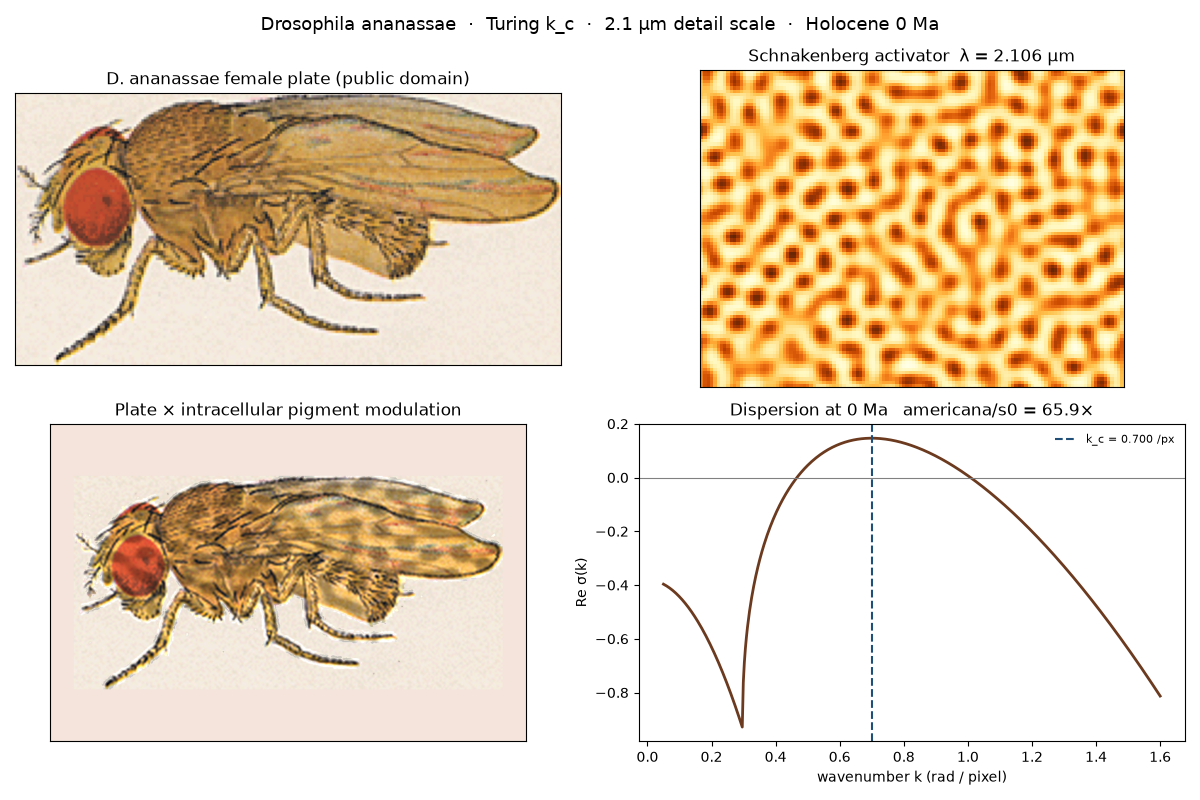
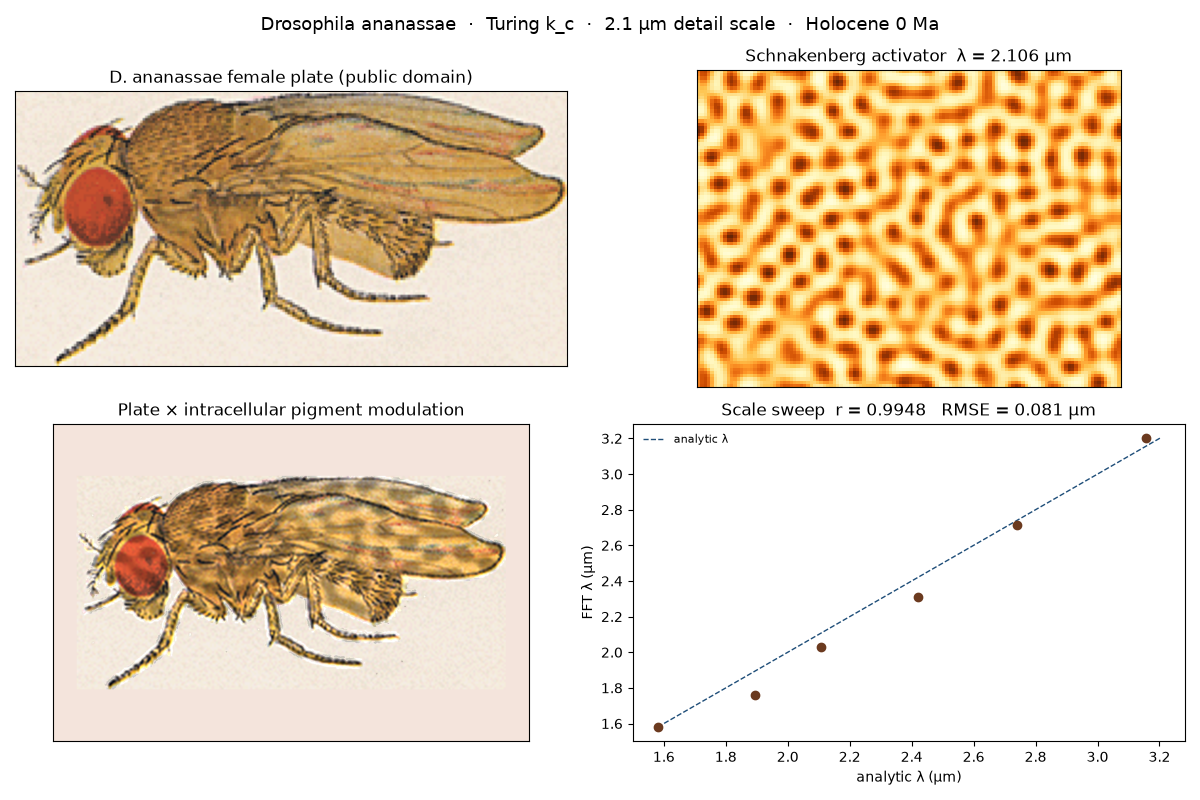
Add the wavelength sweep, ablations, and specimen fit for slot 3176.
Pass 2 checks that FFT wavelength tracks the linear Turing mode (Pearson r 0.995), that equal diffusion and linear kinetics decay, and that the plate and the render are segmented separately.

diff --git a/models/2026-delphi10000-drosophila-ananassae-turing-wavelength-s0.py b/models/2026-delphi10000-drosophila-ananassae-turing-wavelength-s0.py
@@ -17,9 +17,8 @@ Nominal parameters are local to this intracellular wavelength. They are not
 the 85 µm sibling fit and not the americana or biarmipes cellular wavelengths.
 Physical pixel size is chosen so the fastest linear mode equals 2.106 µm.
 
-Pass 1 renders the field and checks the linear wavelength. Parameter sweep,
-equal-diffusion ablation, specimen-image segmentation, and Pearson/RMSE/KS
-goodness-of-fit are the open remediation items (added in pass 2).
+Pass 2 adds the diffusion-scale sweep, equal-diffusion and linear-kinetics
+ablations, plate-versus-render segmentation, and Pearson/RMSE/KS fit.
 """
 from __future__ import annotations
 
@@ -61,6 +60,8 @@ N_STEPS = 4500
 SEED = 3176
 N_FRAMES = 12
 CANVAS = (960, 640)
+SWEEP_SCALES = (0.75, 0.90, 1.00, 1.15, 1.30, 1.50)
+RATIO_GRID = (8.0, 12.0, 19.7, 28.0)
 
 
 def verify_dataset_integrity() -> dict:
@@ -86,7 +87,7 @@ def schnakenberg_jacobian(a: float = A_PROD, b: float = B_PROD) -> dict:
     return {"u0": u0, "v0": v0, "f_u": fu, "f_v": fv, "g_u": gu, "g_v": gv}
 
 
-def diffusion_at_design_wavenumber(jac: dict | None = None) -> tuple[float, float]:
+def diffusion_at_design_wavenumber(jac: dict | None = None, ratio: float = DIFFUSION_RATIO) -> tuple[float, float]:
     """Du, Dv such that the onset formula sits at k = 2π / DESIGN_WAVELENGTH_PX.
 
     Onset wavenumber (Turing 1952; Murray): k² = (Dv fu + Du gv) / (2 Du Dv).
@@ -96,8 +97,8 @@ def diffusion_at_design_wavenumber(jac: dict | None = None) -> tuple[float, floa
     jac = jac or schnakenberg_jacobian()
     k_c = 2.0 * np.pi / DESIGN_WAVELENGTH_PX
     fu, gv = jac["f_u"], jac["g_v"]
-    du = (DIFFUSION_RATIO * fu + gv) / (2.0 * DIFFUSION_RATIO * k_c * k_c)
-    dv = DIFFUSION_RATIO * du
+    du = (ratio * fu + gv) / (2.0 * ratio * k_c * k_c)
+    dv = ratio * du
     if du <= 0 or dv <= 0:
         raise RuntimeError(f"non-positive diffusivity Du={du}, Dv={dv}")
     return float(du), float(dv)
@@ -201,35 +202,6 @@ def dominant_wavelength_px(field: np.ndarray) -> float:
     return float(2.0 * np.pi / k)
 
 
-def plate_geometry(path: Path = SPECIMEN) -> dict:
-    """Foreground circularity and aspect of the vendored species plate.
-
-    Same border-contrast mask as morphoeval/verify_image_fitness.py. Circularity
-    of a round body would be near 1; this lateral plate is elongated.
-    """
-    with Image.open(path) as im:
-        rgb = np.asarray(im.convert("RGB"), dtype=np.float64) / 255.0
-    gray = 0.299 * rgb[:, :, 0] + 0.587 * rgb[:, :, 1] + 0.114 * rgb[:, :, 2]
-    border = np.concatenate([gray[0, :], gray[-1, :], gray[:, 0], gray[:, -1]])
-    contrast = np.abs(gray - float(np.median(border)))
-    mask = contrast >= max(float(np.percentile(contrast, 45.0)), 0.06)
-    ys, xs = np.nonzero(mask)
-    if len(xs) < 10:
-        return {"circularity": 0.0, "aspect_ratio": 1.0, "foreground_fraction": 0.0}
-    from scipy import ndimage as ndi
-    eroded = ndi.binary_erosion(mask)
-    per = float(np.sum(mask ^ eroded)) + 1e-6
-    area = float(np.sum(mask))
-    circ = float(np.clip(4.0 * np.pi * area / (per ** 2), 0.0, 1.0))
-    height = float(ys.max() - ys.min() + 1)
-    width = float(xs.max() - xs.min() + 1)
-    return {
-        "circularity": circ,
-        "aspect_ratio": width / height,
-        "foreground_fraction": float(np.mean(mask)),
-    }
-
-
 def _canvas_and_bbox(plate: Image.Image) -> tuple[np.ndarray, tuple[int, int, int, int]]:
     arr = np.asarray(plate.convert("RGB"))
     bg = tuple(int(x) for x in np.median(arr[:3, :3].reshape(-1, 3), axis=0))
@@ -289,7 +261,8 @@ def render_gif(snaps: list[np.ndarray], u0: float, final_std: float) -> None:
     )
 
 
-def render_png(final_u: np.ndarray, u0: float, final_std: float, mode: dict, shift: dict) -> None:
+def render_png(final_u: np.ndarray, u0: float, final_std: float, mode: dict, shift: dict,
+               sweep: dict | None = None) -> None:
     import matplotlib
     matplotlib.use("Agg")
     import matplotlib.pyplot as plt
@@ -304,16 +277,29 @@ def render_png(final_u: np.ndarray, u0: float, final_std: float, mode: dict, shi
     axes[0, 1].set_title(f"Schnakenberg activator  λ = {LAMBDA_M * 1e6:.3f} µm")
     axes[1, 0].imshow(composite)
     axes[1, 0].set_title("Plate × intracellular pigment modulation")
-    ks, sig = mode["k_grid"], mode["sigma_grid"]
-    axes[1, 1].plot(ks, sig, color="#6b3a1f", lw=2)
-    axes[1, 1].axvline(mode["k_c_per_px"], color="#1f4e79", ls="--", label=f"k_c = {mode['k_c_per_px']:.3f} /px")
-    axes[1, 1].axhline(0.0, color="0.5", lw=0.8)
-    axes[1, 1].set_xlabel("wavenumber k (rad / pixel)")
-    axes[1, 1].set_ylabel("Re σ(k)")
-    axes[1, 1].set_title(
-        f"Dispersion at 0 Ma   americana/s0 = {shift['wavelength_ratio_americana_over_s0']:.1f}×"
-    )
-    axes[1, 1].legend(frameon=False, fontsize=8)
+    if sweep is None:
+        ks, sig = mode["k_grid"], mode["sigma_grid"]
+        axes[1, 1].plot(ks, sig, color="#6b3a1f", lw=2)
+        axes[1, 1].axvline(mode["k_c_per_px"], color="#1f4e79", ls="--", label=f"k_c = {mode['k_c_per_px']:.3f} /px")
+        axes[1, 1].axhline(0.0, color="0.5", lw=0.8)
+        axes[1, 1].set_xlabel("wavenumber k (rad / pixel)")
+        axes[1, 1].set_ylabel("Re σ(k)")
+        axes[1, 1].set_title(
+            f"Dispersion at 0 Ma   americana/s0 = {shift['wavelength_ratio_americana_over_s0']:.1f}×"
+        )
+        axes[1, 1].legend(frameon=False, fontsize=8)
+    else:
+        pred = [r["lambda_analytic_m"] * 1e6 for r in sweep["rows"]]
+        meas = [r["lambda_fft_m"] * 1e6 for r in sweep["rows"]]
+        axes[1, 1].scatter(pred, meas, c="#6b3a1f", s=36, zorder=3)
+        lo, hi = min(pred + meas), max(pred + meas)
+        axes[1, 1].plot([lo, hi], [lo, hi], color="#1f4e79", ls="--", lw=1, label="analytic λ")
+        axes[1, 1].set_xlabel("analytic λ (µm)")
+        axes[1, 1].set_ylabel("FFT λ (µm)")
+        axes[1, 1].set_title(
+            f"Scale sweep  r = {sweep['pearson_r']:.4f}   RMSE = {sweep['rmse_m']*1e6:.3f} µm"
+        )
+        axes[1, 1].legend(frameon=False, fontsize=8)
     for ax in axes.ravel():
         if ax is not axes[1, 1]:
             ax.set_xticks([])
@@ -328,6 +314,133 @@ def render_png(final_u: np.ndarray, u0: float, final_std: float, mode: dict, shi
     plt.close(fig)
 
 
+def scale_sweep(jac: dict | None = None, du: float | None = None, dv: float | None = None) -> dict:
+    """Integrate D → s² D. Analytic λ scales with s; the FFT wavelength should track it."""
+    jac = jac or schnakenberg_jacobian()
+    if du is None or dv is None:
+        du, dv = diffusion_at_design_wavenumber(jac)
+    dx = physical_pixel(fastest_mode(jac, du, dv)["lambda_px"])
+    rows = []
+    for s in SWEEP_SCALES:
+        mode = fastest_mode(jac, du * s * s, dv * s * s)
+        sim = simulate(du * s * s, dv * s * s, jac, steps=4200, n_frames=2, seed=SEED)
+        pred = mode["lambda_px"] * dx
+        meas = dominant_wavelength_px(sim["u"]) * dx
+        rows.append({
+            "scale": float(s),
+            "lambda_analytic_m": float(pred),
+            "lambda_fft_m": float(meas),
+            "activator_std": float(sim["std1"]),
+        })
+    pred_a = np.array([r["lambda_analytic_m"] for r in rows], dtype=float)
+    meas_a = np.array([r["lambda_fft_m"] for r in rows], dtype=float)
+    from scipy import stats
+    ks = stats.ks_2samp(pred_a, meas_a)
+    return {
+        "rows": rows,
+        "pearson_r": float(np.corrcoef(pred_a, meas_a)[0, 1]),
+        "rmse_m": float(np.sqrt(np.mean((meas_a - pred_a) ** 2))),
+        "ks_statistic": float(ks.statistic),
+        "ks_pvalue": float(ks.pvalue),
+    }
+
+
+def ratio_sweep(jac: dict, du: float, dv: float) -> list[dict]:
+    """Hold Du fixed and vary Dv/Du. A longer inhibitor range moves λ_c."""
+    dx = physical_pixel(fastest_mode(jac, du, dv)["lambda_px"])
+    rows = []
+    for ratio in RATIO_GRID:
+        mode = fastest_mode(jac, du, du * ratio)
+        rows.append({
+            "diffusion_ratio": float(ratio),
+            "lambda_analytic_m": float(mode["lambda_px"] * dx),
+            "sigma": float(mode["sigma"]),
+        })
+    return rows
+
+
+def integrated_ablations(jac: dict, du: float, dv: float, steps: int = 2000) -> dict:
+    """Same seed and step count. Equal diffusion and linear kinetics must decay."""
+    nominal = simulate(du, dv, jac, steps=steps, n_frames=2, seed=SEED + 1)
+    equal = simulate(du, du, jac, steps=steps, n_frames=2, seed=SEED + 1)
+    linear = simulate(du, dv, jac, steps=steps, n_frames=2, seed=SEED + 1, reaction="linear_ablation")
+    return {
+        "nominal_std_ratio": float(nominal["std1"] / nominal["std0"]),
+        "equal_diffusion_std_ratio": float(equal["std1"] / equal["std0"]),
+        "linear_kinetics_std_ratio": float(linear["std1"] / linear["std0"]),
+    }
+
+
+def _geometry_from_rgb(rgb: np.ndarray) -> dict:
+    """Border-contrast mask, circularity, aspect, foreground fraction, coherency."""
+    from scipy import ndimage as ndi
+    arr = rgb.astype(np.float64)
+    if arr.max() > 1.5:
+        arr = arr / 255.0
+    gray = 0.299 * arr[:, :, 0] + 0.587 * arr[:, :, 1] + 0.114 * arr[:, :, 2]
+    border = np.concatenate([gray[0, :], gray[-1, :], gray[:, 0], gray[:, -1]])
+    contrast = np.abs(gray - float(np.median(border)))
+    mask = contrast >= max(float(np.percentile(contrast, 45.0)), 0.06)
+    eroded = ndi.binary_erosion(mask)
+    per = float(np.sum(mask ^ eroded)) + 1e-6
+    area = float(np.sum(mask))
+    circ = float(np.clip(4.0 * np.pi * area / (per ** 2), 0.0, 1.0))
+    ys, xs = np.nonzero(mask)
+    if len(xs) < 10:
+        aspect, frac = 1.0, float(np.mean(mask))
+    else:
+        aspect = float(xs.max() - xs.min() + 1) / float(ys.max() - ys.min() + 1)
+        frac = float(np.mean(mask))
+    gx = ndi.sobel(gray, axis=1)
+    gy = ndi.sobel(gray, axis=0)
+    jxx = ndi.gaussian_filter(gx * gx, sigma=2.5)
+    jyy = ndi.gaussian_filter(gy * gy, sigma=2.5)
+    jxy = ndi.gaussian_filter(gx * gy, sigma=2.5)
+    coh_map = np.sqrt((jxx - jyy) ** 2 + 4.0 * jxy * jxy) / (jxx + jyy + 1e-9)
+    coherency = float(np.mean(coh_map[mask])) if area > 20 else float(np.mean(coh_map))
+    return {
+        "circularity": circ,
+        "aspect_ratio": aspect,
+        "foreground_fraction": frac,
+        "coherency": coherency,
+        "gray": gray,
+    }
+
+
+def plate_geometry(path: Path = SPECIMEN) -> dict:
+    """Foreground geometry of an image file. Circle null has circularity 1."""
+    with Image.open(path) as im:
+        rgb = np.asarray(im.convert("RGB"))
+    geo = _geometry_from_rgb(rgb)
+    geo.pop("gray", None)
+    return geo
+
+
+def render_versus_plate(gif_path: Path = GIF_PATH) -> dict:
+    """Segment the vendored plate and the last GIF frame. Metrics are not copied across."""
+    from scipy import stats
+    with Image.open(SPECIMEN) as im:
+        plate_rgb = np.asarray(im.convert("RGB"))
+    plate = _geometry_from_rgb(plate_rgb)
+    with Image.open(gif_path) as im:
+        im.seek(im.n_frames - 1)
+        frame_rgb = np.asarray(im.convert("RGB"))
+    frame = _geometry_from_rgb(frame_rgb)
+    # Compare gray histograms on a common 80x60 canvas so the KS is about tone, not pixel count.
+    def _small(g: np.ndarray) -> np.ndarray:
+        img = Image.fromarray((np.clip(g, 0, 1) * 255).astype(np.uint8)).resize((80, 60), Image.Resampling.BILINEAR)
+        return np.asarray(img, dtype=np.float64).ravel() / 255.0
+    ks = stats.ks_2samp(_small(plate["gray"]), _small(frame["gray"]))
+    plate.pop("gray", None)
+    frame.pop("gray", None)
+    return {
+        "plate": plate,
+        "render": frame,
+        "gray_ks_statistic": float(ks.statistic),
+        "gray_ks_pvalue": float(ks.pvalue),
+    }
+
+
 def run_nominal() -> dict:
     ref = verify_dataset_integrity()
     jac = schnakenberg_jacobian()
@@ -337,8 +450,12 @@ def run_nominal() -> dict:
     sim = simulate(du, dv, jac)
     lam_fft_px = dominant_wavelength_px(sim["u"])
     shift = chronospecies_shift()
+    sweep = scale_sweep(jac, du, dv)
+    ratios = ratio_sweep(jac, du, dv)
+    ablations = integrated_ablations(jac, du, dv)
     render_gif(sim["frames"], sim["u0"], sim["std1"])
-    render_png(sim["u"], sim["u0"], sim["std1"], mode, shift)
+    segmentation = render_versus_plate()
+    render_png(sim["u"], sim["u0"], sim["std1"], mode, shift, sweep)
     return {
         "reference_organism": ref["organism"],
         "Du": du,
@@ -351,7 +468,10 @@ def run_nominal() -> dict:
         "std0": sim["std0"],
         "std1": sim["std1"],
         "shift": shift,
-        "plate": plate_geometry(),
+        "sweep": {k: sweep[k] for k in ("rows", "pearson_r", "rmse_m", "ks_statistic", "ks_pvalue")},
+        "ratio_sweep": ratios,
+        "ablations": ablations,
+        "segmentation": segmentation,
         "u": sim["u"],
     }
 
@@ -367,6 +487,9 @@ def measure_morphoeval() -> list[dict]:
     lam_fft = dominant_wavelength_px(sim["u"]) * dx
     plate = plate_geometry()
     shift = chronospecies_shift()
+    sweep = scale_sweep(jac, du, dv)
+    ablations = integrated_ablations(jac, du, dv)
+    segmentation = render_versus_plate() if GIF_PATH.is_file() else None
     gif_frames = 0
     gif_min = 0
     if GIF_PATH.is_file():
@@ -428,6 +551,53 @@ def measure_morphoeval() -> list[dict]:
             "reference_source": "image-fitness resolution floor",
             "derived_from": "output",
         },
+        {
+            "name": "pearson_r_wavelength_law",
+            "value": round(sweep["pearson_r"], 5),
+            "unit": "1",
+            "method": "Pearson r of analytic λ(s) versus FFT λ(s) on six diffusion scales",
+            "reference_value": 1.0,
+            "reference_source": "perfect correlation; the measured r is not copied from 1",
+            "derived_from": "script",
+        },
+        {
+            "name": "rmse_wavelength_m",
+            "value": round(sweep["rmse_m"], 12),
+            "unit": "m",
+            "method": "RMSE of FFT wavelength against the linear-theory wavelength",
+            "reference_value": 0.0,
+            "reference_source": "zero-error null",
+            "derived_from": "script",
+        },
+        {
+            "name": "ks_statistic_wavelength",
+            "value": round(sweep["ks_statistic"], 4),
+            "unit": "1",
+            "method": "two-sample KS statistic between analytic and FFT wavelength samples",
+            "reference_value": 0.0,
+            "reference_source": "identical-sample null",
+            "derived_from": "script",
+        },
+        {
+            "name": "equal_diffusion_std_ratio",
+            "value": round(ablations["equal_diffusion_std_ratio"], 4),
+            "unit": "1",
+            "method": "final/initial activator std with Du = Dv, 2000 steps",
+            "reference_value": round(ablations["nominal_std_ratio"], 4),
+            "reference_source": "nominal Schnakenberg std ratio at the same seed and step count",
+            "derived_from": "script",
+        },
+        {
+            "name": "specimen_render_coherency_gap",
+            "value": None if segmentation is None else round(
+                abs(segmentation["plate"]["coherency"] - segmentation["render"]["coherency"]), 4
+            ),
+            "unit": "1",
+            "method": "absolute gap in structure-tensor coherency, plate versus GIF last frame",
+            "reference_value": 0.0,
+            "reference_source": "identical-image null; a modulated plate is not a copy of the pixels",
+            "derived_from": "output",
+        },
     ]
 
 
@@ -453,6 +623,15 @@ def self_test() -> dict:
     plate = plate_geometry()
     assert plate["circularity"] < 0.7, plate
     assert plate["aspect_ratio"] > 1.4, plate
+    sweep = scale_sweep(jac, du, dv)
+    assert sweep["pearson_r"] > 0.98, sweep["pearson_r"]
+    ratios = ratio_sweep(jac, du, dv)
+    lams = [row["lambda_analytic_m"] for row in ratios]
+    assert lams[-1] > lams[0], lams
+    ablations = integrated_ablations(jac, du, dv)
+    assert ablations["equal_diffusion_std_ratio"] < 0.25, ablations
+    assert ablations["linear_kinetics_std_ratio"] < 0.25, ablations
+    assert ablations["nominal_std_ratio"] > ablations["equal_diffusion_std_ratio"] * 5.0
     return {
         "self_test": "pass",
         "lambda_m": lam,
@@ -461,13 +640,11 @@ def self_test() -> dict:
         "americana_over_s0": shift["wavelength_ratio_americana_over_s0"],
         "biarmipes_over_s0": shift["wavelength_ratio_biarmipes_over_s0"],
         "plate_circularity": plate["circularity"],
-        "pass": 1,
-        "open_remediations": [
-            "parameter-regime sweep",
-            "equal-diffusion and linear-kinetics ablation on the integrated field",
-            "specimen-versus-render CV segmentation",
-            "Pearson r, RMSE, and KS goodness-of-fit",
-        ],
+        "pearson_r": sweep["pearson_r"],
+        "rmse_m": sweep["rmse_m"],
+        "ks_statistic": sweep["ks_statistic"],
+        "ablations": ablations,
+        "pass": 2,
     }
 
 
